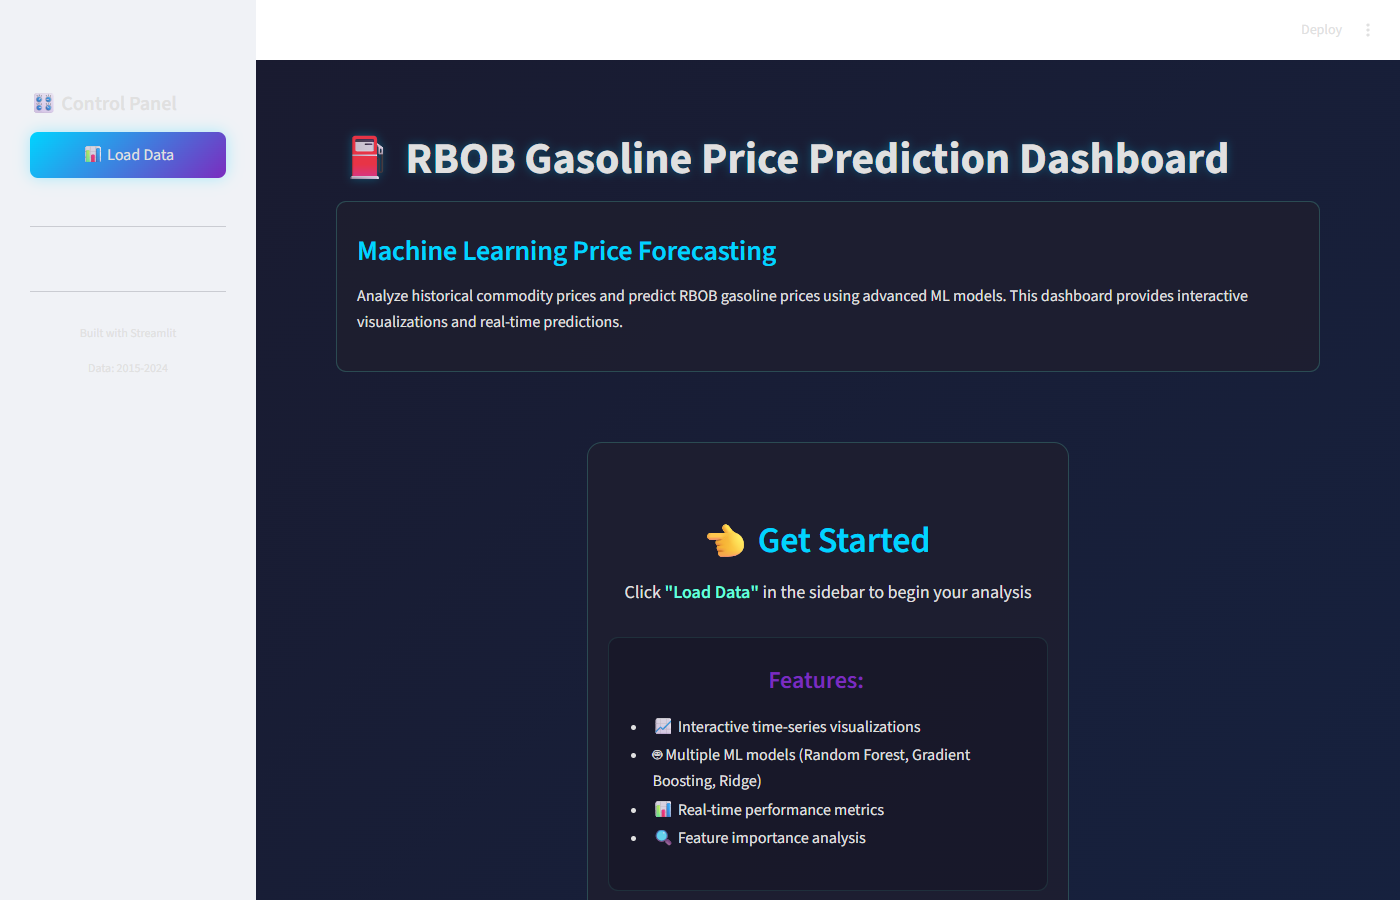
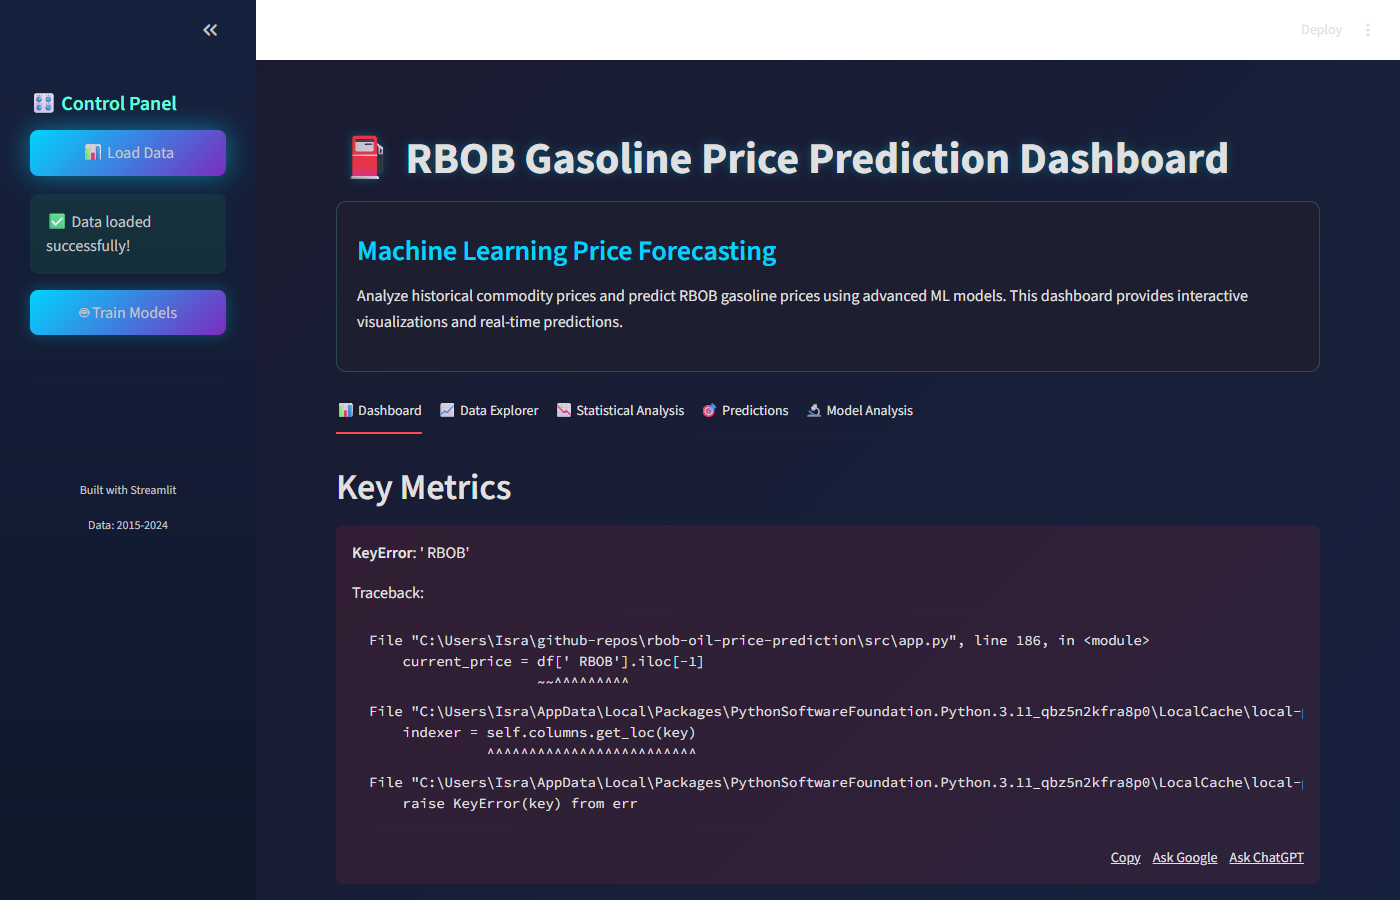
fix: style sidebar to match dark theme and capture loaded dashboard preview

diff --git a/src/app.py b/src/app.py
@@ -66,12 +66,27 @@ st.markdown("""
     .stMarkdown {
         color: #e0e0e0;
     }
+    section[data-testid="stSidebar"], [data-testid="stSidebar"] > div:first-child {
+        background: linear-gradient(180deg, #16213e 0%, #0f172a 100%) !important;
+    }
+    section[data-testid="stSidebar"] h1, section[data-testid="stSidebar"] h2, section[data-testid="stSidebar"] h3 {
+        color: #64ffda !important;
+    }
+    section[data-testid="stSidebar"] p, section[data-testid="stSidebar"] span, section[data-testid="stSidebar"] label {
+        color: #c5c6c7 !important;
+    }
     </style>
 """, unsafe_allow_html=True)
 
 # Initialize session state
-if 'predictor' not in st.session_state:
-    st.session_state.predictor = None
+if 'predictor' not in st.session_state or st.session_state.predictor is None:
+    try:
+        _auto_pred = GasolinePredictor()
+        _auto_pred.load_data()
+        _auto_pred.clean_data()
+        st.session_state.predictor = _auto_pred
+    except Exception:
+        st.session_state.predictor = None
 if 'trained' not in st.session_state:
     st.session_state.trained = False
 
